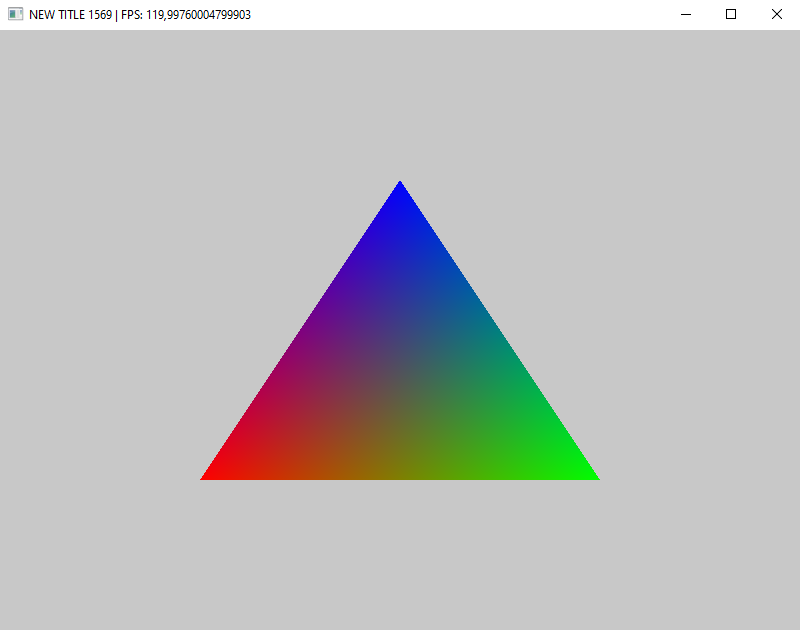
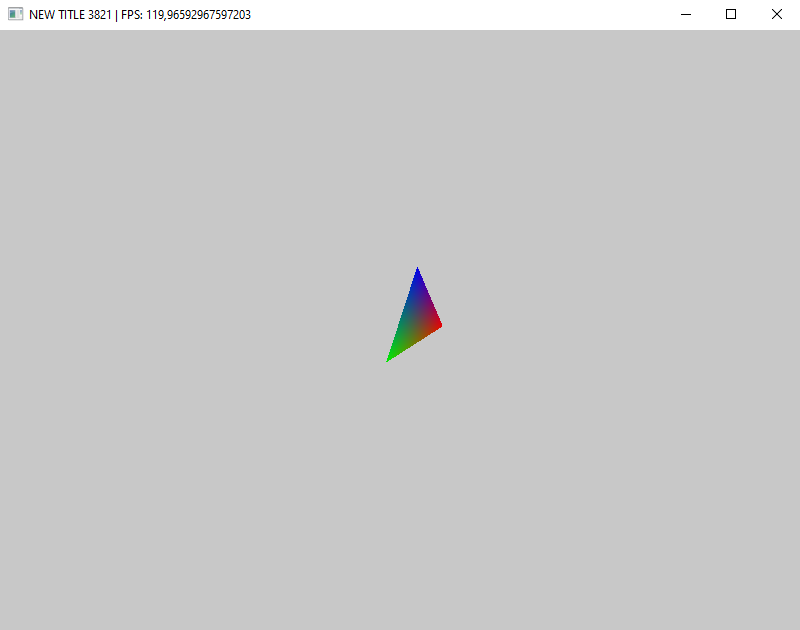
Движение камерой

Changed region(s): [[0.25, 0.3016, 0.75, 0.7841], [0.2188, 0.0, 0.3125, 0.0302], [0.0938, 0.0, 0.1562, 0.0302]]

diff --git a/WoowzEngine/WoowzEngineEditor/Program.cs b/WoowzEngine/WoowzEngineEditor/Program.cs
@@ -1,4 +1,5 @@
 using WE;
+using WLI_Input;
 using WLI_Render;
 using WLI.GPU;
 using WLO;
@@ -19,10 +20,12 @@ string VertexSource = @"
 layout (location = 0) in vec2 aPos;
 layout (location = 1) in vec4 aColor;
 
+uniform mat4 uViewProjection;
+
 out vec4 vColor;
 
 void main() {
-    gl_Position = vec4(aPos, 0.0, 1.0);
+    gl_Position = uViewProjection * vec4(aPos, 0.0, 1.0);
     vColor = aColor;
 }";
 
@@ -46,6 +49,7 @@ GLShader FShader = (GLShader)WE.Render.API.CreateShader(WLI.GPU.Shader.Type.Frag
 
 GLProgram Program = (GLProgram)WE.Render.API.CreateProgram(VShader, FShader);
 int Uniform_Time = Program.GetUniform("uTime");
+int Uniform_ViewProjection = Program.GetUniform("uViewProjection");
 
 var Layout = new VertexLayout(
     new VertexAttribute("aPos", 2, VertexAttribute.AttributeType.Float),
@@ -61,7 +65,11 @@ Vertex[] Vertices = [
 GLMesh Triangle = (GLMesh)WE.Render.API.CreateMesh(Layout, Vertices);
 
 
+Vector3F Camera_Position = new Vector3F(0, 0, 3);
+Vector3F Camera_Rotation = new Vector3F(0, 0, 0);
 
+float Camera_Move_Speed = 3;
+float Camera_Rotate_Speed = 2;
 
 float Time = 0;
 int i = 0;
@@ -70,15 +78,56 @@ while(!Window.IsClosed){
     Window.PollEvents();
     
     if(WL.Thread.LimitByFPS(120, ref DTI)){
+        float DT = (float)DTI.Value.DT;
+        
         i++;
-        Time += (float)DTI.Value.DT;
+        Time += DT;
         Window.Title = "NEW TITLE " + i + " | FPS: " + DTI.Value.FPS;
+
+        void CameraControlls(){
+            if(Window.Keyboard.IsKeyDown(Keyboard.Key.Up))    Camera_Rotation -= new Vector3F(Camera_Rotate_Speed * DT, 0, 0);
+            if(Window.Keyboard.IsKeyDown(Keyboard.Key.Down))  Camera_Rotation += new Vector3F(Camera_Rotate_Speed * DT, 0, 0);
+            if(Window.Keyboard.IsKeyDown(Keyboard.Key.Left))  Camera_Rotation -= new Vector3F(0, Camera_Rotate_Speed * DT, 0);
+            if(Window.Keyboard.IsKeyDown(Keyboard.Key.Right)) Camera_Rotation += new Vector3F(0, Camera_Rotate_Speed * DT, 0);
+            
+            float pitch = Camera_Rotation.X;
+            float yaw   = Camera_Rotation.Y;
+            
+            Vector3F forward = new Vector3F(
+                (float)Math.Sin(yaw) * (float)Math.Cos(pitch),
+                -(float)Math.Sin(pitch),
+                -(float)Math.Cos(yaw) * (float)Math.Cos(pitch)
+            );
+            
+            Vector3F right = new Vector3F(
+                (float)Math.Cos(yaw),
+                0,
+                (float)Math.Sin(yaw)
+            );
+            
+            float speed = Camera_Move_Speed * DT;
+            if(Window.Keyboard.IsKeyDown(Keyboard.Key.W)) Camera_Position += forward * speed;
+            if(Window.Keyboard.IsKeyDown(Keyboard.Key.S)) Camera_Position -= forward * speed;
+            if(Window.Keyboard.IsKeyDown(Keyboard.Key.A)) Camera_Position -= right * speed;
+            if(Window.Keyboard.IsKeyDown(Keyboard.Key.D)) Camera_Position += right * speed;
+        }
+        CameraControlls();
         
         WE.Render.API.CRenderView.Viewport = Window.Size;
         
         WE.Render.API.FrameStart();
         
         WE.Render.API.Clear(new Color4B(200, 200, 200));
+
+
+        Matrix4F Projection = Matrix4F.CreatePerspective(1, Window.Aspect, 0.1f, 100f);
+        
+        Matrix4F View = Matrix4F.CreateRotationX(Camera_Rotation.X) *
+                        Matrix4F.CreateRotationY(Camera_Rotation.Y) *
+                        Matrix4F.CreateTranslation(-Camera_Position.X, -Camera_Position.Y, -Camera_Position.Z);
+        
+
+        Program.SetUniformM4F(Uniform_ViewProjection, Projection * View);
 
         Program.SetUniformF(Uniform_Time, Time);
         WE.Render.API.Draw(Triangle, Program);
